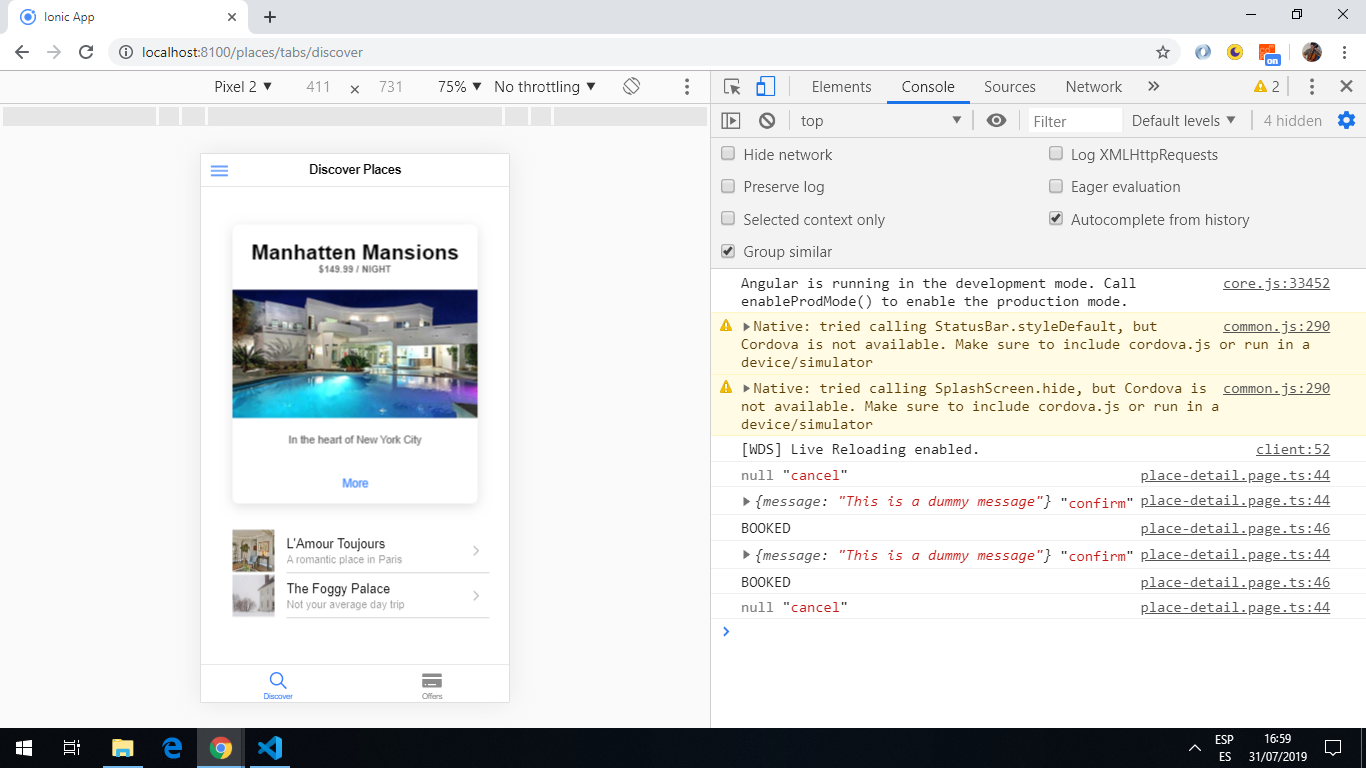
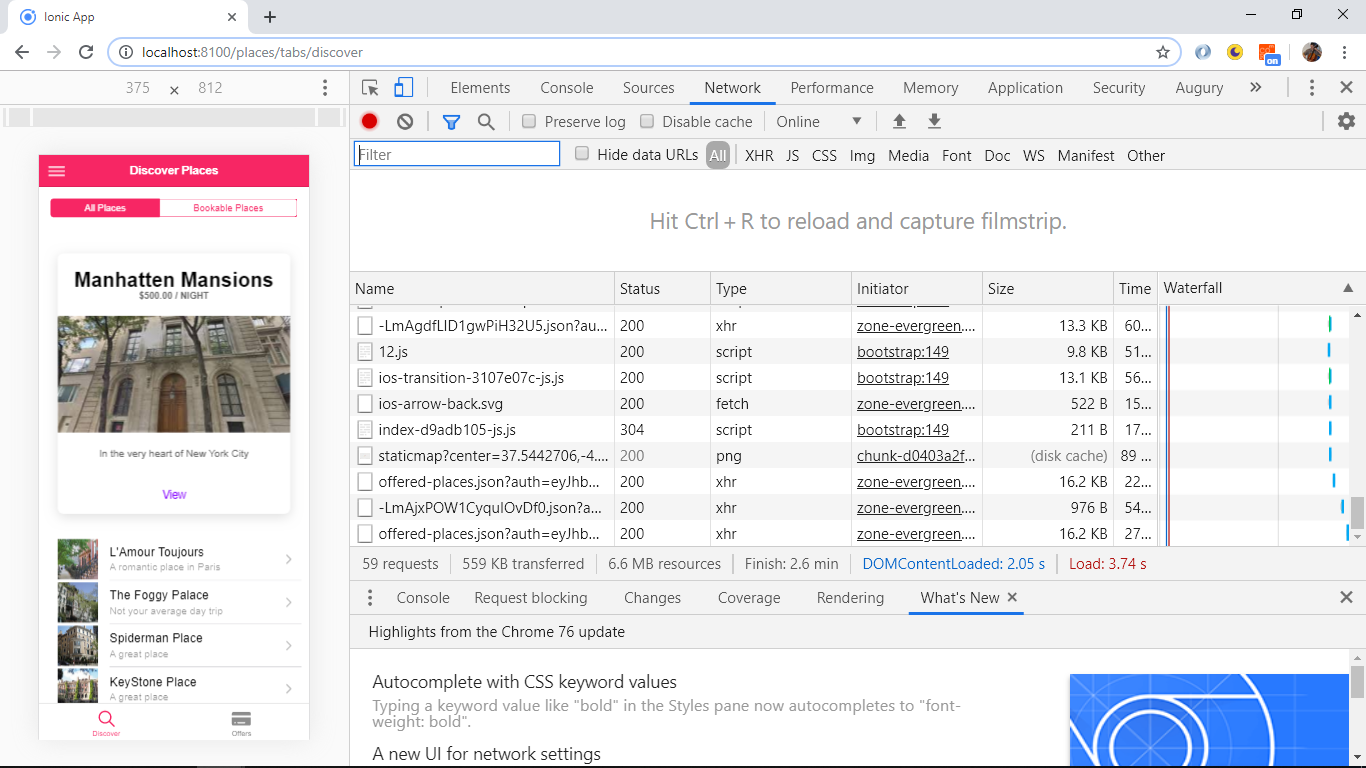
minor improvements to discover page, readme updates

diff --git a/src/app/places/discover/discover.page.html b/src/app/places/discover/discover.page.html
@@ -2,16 +2,13 @@
   <ion-toolbar>
     <ion-buttons slot="start">
       <ion-menu-button></ion-menu-button>
-      <!-- <ion-button (click)="onOpenMenu"> -->
-        <!-- Open
-      </ion-button> -->
     </ion-buttons>
     <ion-title>Discover Places</ion-title>
   </ion-toolbar>
 </ion-header>
 
-<ion-content padding>
-  <ion-segment (ionChange)="onFilterUpdate($event)">
+<ion-content>
+  <ion-segment (ionChange)="onFilterUpdate($event)" padding>
     <ion-segment-button value="all" checked>All Places</ion-segment-button>
     <ion-segment-button value="bookable">Bookable Places</ion-segment-button>
   </ion-segment>
@@ -34,7 +31,7 @@
 
   <ion-grid *ngIf="!isLoading && relevantPlaces.length > 0">
     <ion-row>
-      <ion-col size="12" size-sm="8" offset-sm="2" text-center>
+      <ion-col size="12" size-sm="8" size-ms="8" size-xl="6" offset-sm="2" text-center>
         <ion-card>
           <ion-card-header>
             <ion-card-title>{{ relevantPlaces[0].title }}</ion-card-title>
@@ -47,7 +44,8 @@
           <div>
             <ion-button
               fill="clear"
-              color="primary"
+              color="tertiary"
+              routerDirection="forward"
               [routerLink]="[
                 '/',
                 'places',
@@ -55,7 +53,7 @@
                 'discover',
                 relevantPlaces[0].id
               ]">
-              More
+              View
             </ion-button>
           </div>
         </ion-card>

diff --git a/src/app/bookings/bookings.page.ts b/src/app/bookings/bookings.page.ts
@@ -5,7 +5,6 @@ import { Subscription } from 'rxjs';
 import { BookingService } from './booking.service';
 import { Booking } from './booking.model';
 
-
 @Component({
 	selector: 'app-bookings',
 	templateUrl: './bookings.page.html',

diff --git a/README.md b/README.md
@@ -1,7 +1,6 @@
 # Ionic Angular Project
 
-App to create an Airbnb-style app, following Udemy Tutorial: [Ionic 4 - Build iOS, Android & Web Apps with Ionic & Angular](https://www.udemy.com/ionic-2-the-practical-guide-to-building-ios-android-apps/), using the [Ionic 5 framework](https://ionicframework.com/docs).
-Code taken from course.
+App to create Airbnb-style property listings with pages to make bookings and update property details. Code taken from Udemy Tutorial: [Ionic 4 - Build iOS, Android & Web Apps with Ionic & Angular](https://www.udemy.com/ionic-2-the-practical-guide-to-building-ios-android-apps/), using the [Ionic 5 framework](https://ionicframework.com/docs).
 
 ## Table of contents
 
@@ -16,10 +15,10 @@ Code taken from course.
 
 ## General info
 
-* App to view and book places to stay. All places listed on the 'discover.page' and clicking on an item navigates to a place detail page using the place id in the browser.
-* Places are displayed under 2 list option: 'ALL PLACES' and 'BOOKABLE PLACES'. The first place is displayed using an ion-card, the remaining places are displayed using a list with a thumbnail image. There is code to prevent the user from being able to book their own places, using a userId matching function.
+* App to view and book places to stay. All places listed on the 'discover.page' and clicking on an item navigate to a place detail page using the place id in the browser.
+* Places are displayed under 2 list option: 'ALL PLACES' and 'BOOKABLE PLACES'. The first place is displayed using an ion-card, the remaining places are displayed using a list with a thumbnail image. There is code to prevent the user from being able to book their own places, using a userId matching function to show/hide the booking button.
 * Places can be booked, listed and cancelled.
-* New places can be added. The location of the new place is chosen using google maps and is displayed in the template using data-binding. A photo can be taken to add to the new Place description. If there is no camera then there is a file upload button to save a jpeg image.
+* New places can be added as 'Offers'. The location of the new place is chosen using the Google Maps API and is displayed in the template using data-binding. A photo can be taken to add to the new Place description. If there is no camera then there is a file upload button to save a jpeg image.The Firestore Function
 * Burger side panel added with links to the discover places listings, your bookings and a logout button.
 * Bottom menu with 2 links to 'Discover' (default page upon loading) and 'Offers' that lists all the places available.
 
@@ -60,7 +59,9 @@ a [BehaviourSubject](http://reactivex.io/rxjs/manual/overview.html#behaviorsubje
 ## Screenshots
 
 ![page](./img/discover-places-page.png)
-![page](./img/offers-page.png)
+![page](./img/discover-place-detail.png)
+![page](./img/new-offer.png)
+![page](./img/my-offers-page.png)
 ![page](./img/firebase-database.png)
 
 ## Technologies
@@ -150,7 +151,7 @@ private getGoogleMaps(): Promise<any> {
 ## Status & To-do list
 
 * Status: working. Bookings can be made and new places added to offers page. If a different user is logged in they cannot book their own places (the booking button does not show) - which is correct. Camera images now show.
-* To-do: Bookable place list is the same as the 'All Places' list - bookable places should not include the logged in users' places. 'My Offers' includes everyones places. Booking a place works but fix error with template ion-datetime and datesValid() function - "TypeError: Cannot read property 'value' of undefined".
+* To-do: Bookable place list is the same as the 'All Places' list - bookable places should not include the logged in users' places. 'My Offers' includes everyones places.
 
 ## Inspiration
 
